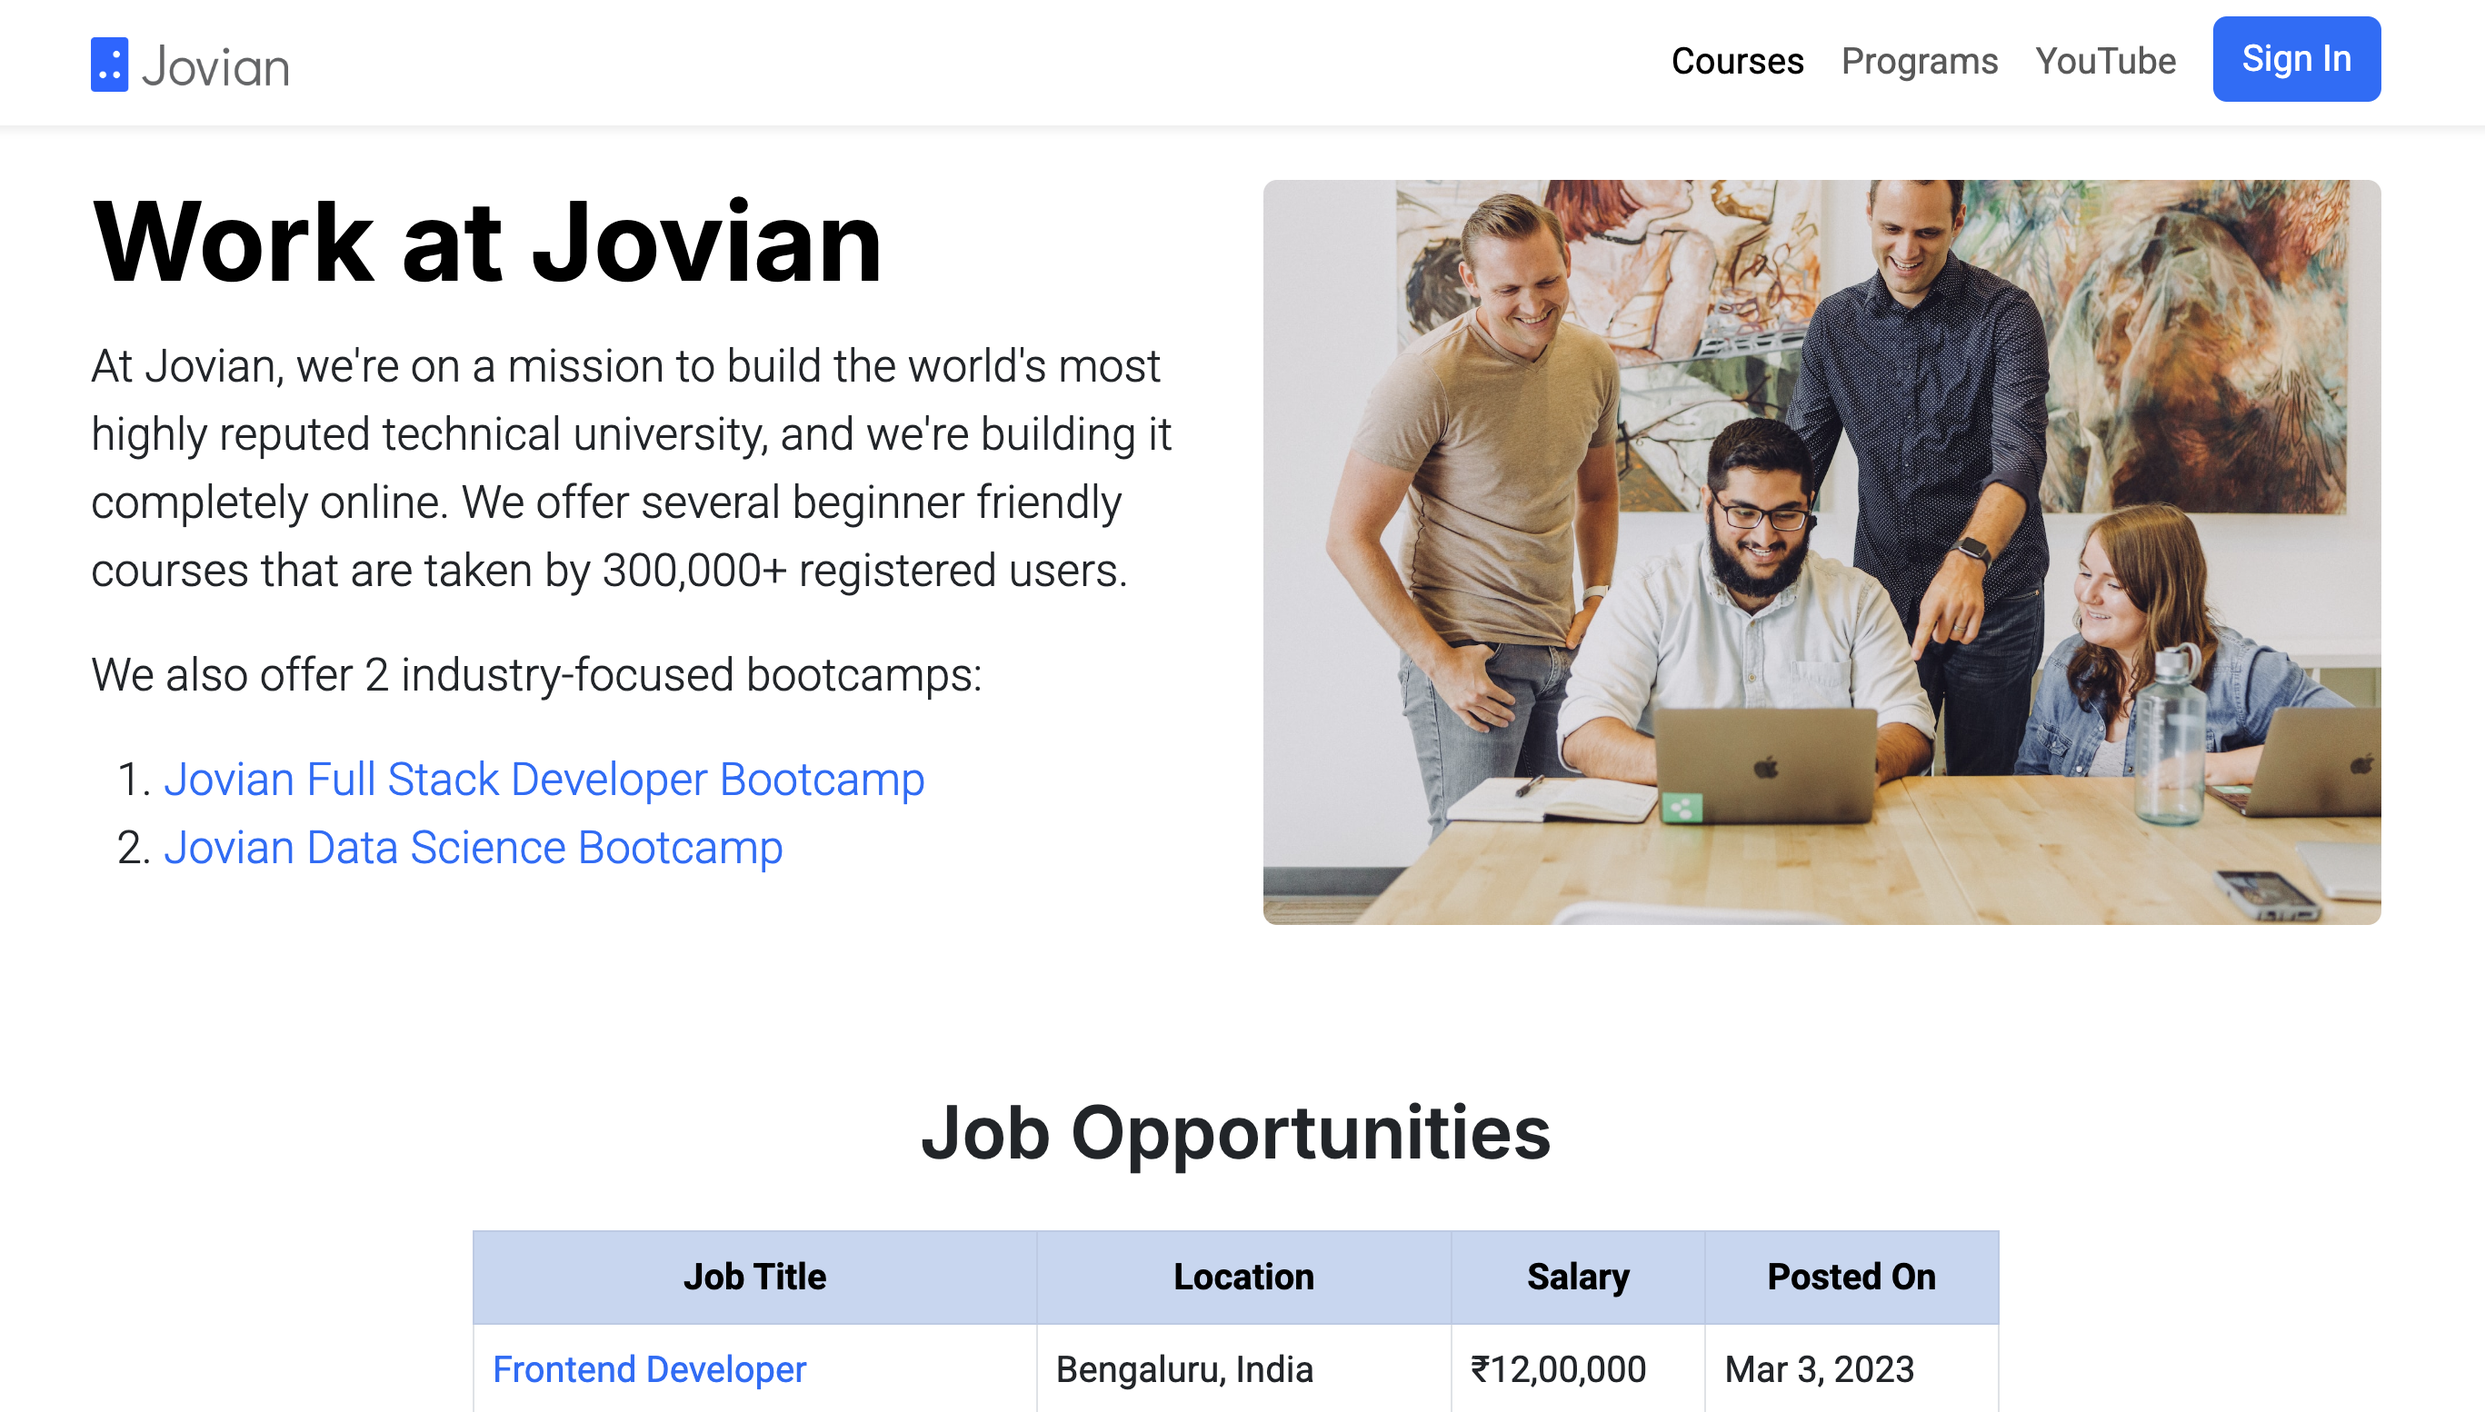
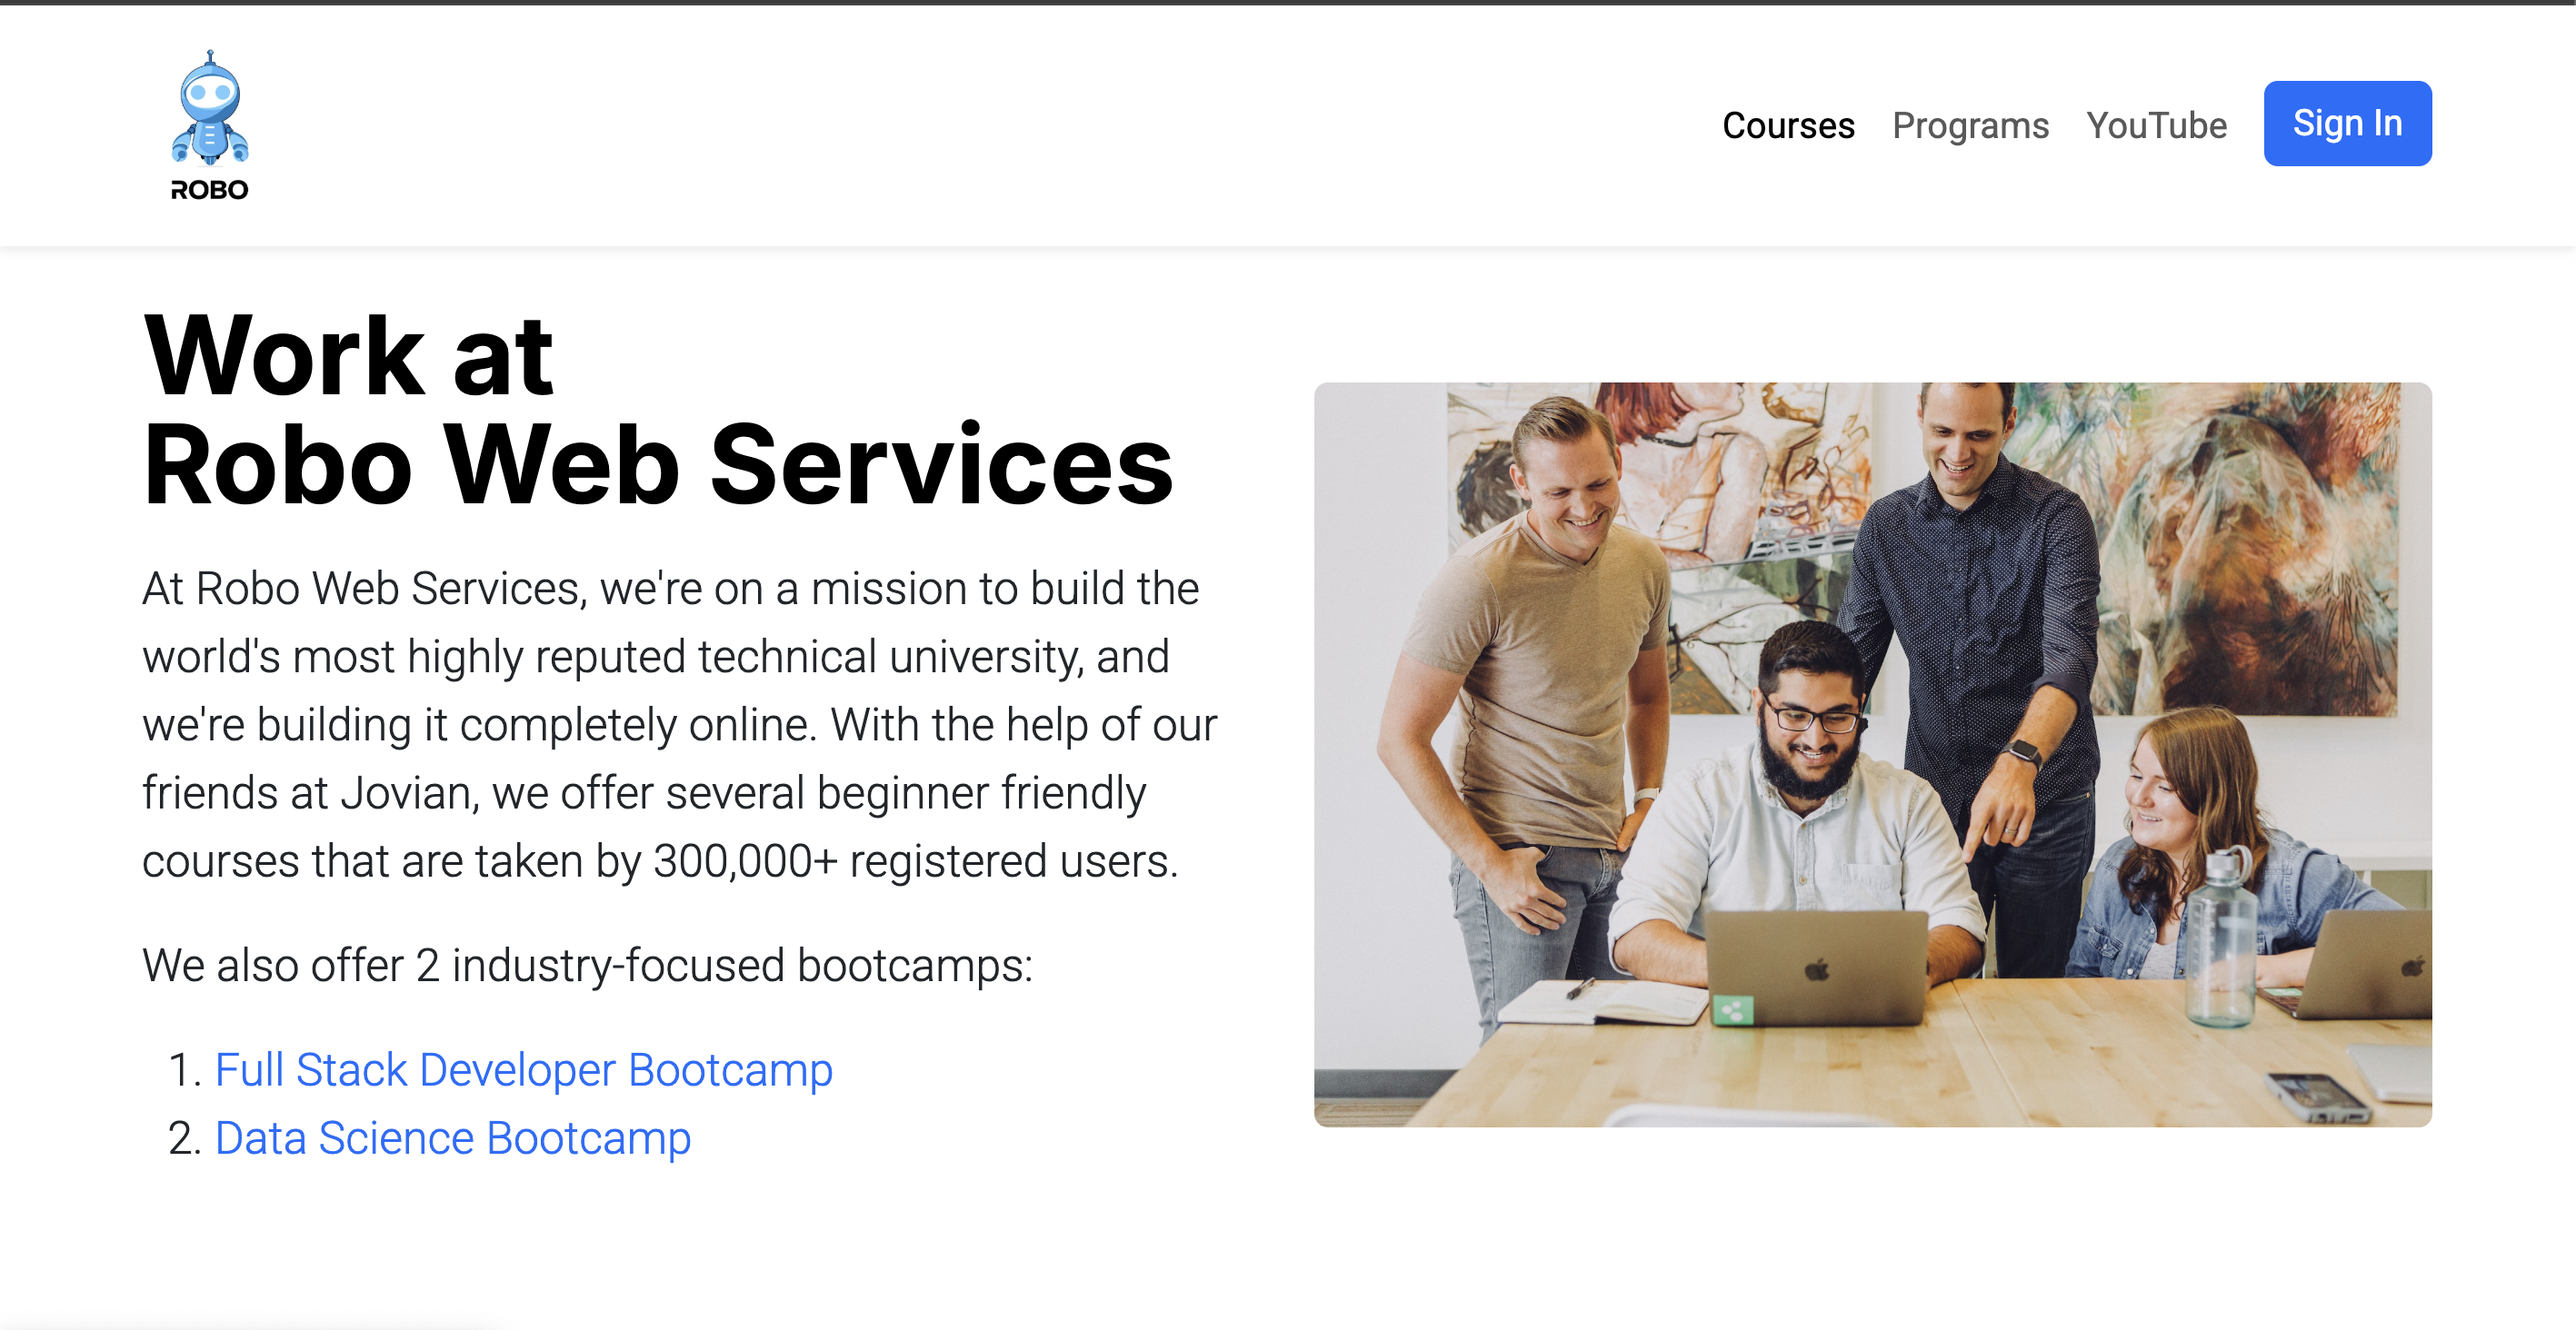
updated project img

diff --git a/index.html b/index.html
@@ -634,7 +634,7 @@
                             <div class="project" style="background-image: url(assets/images/Jovian.png);">
                                 <div class="desc">
                                     <div class="con">
-                                        <h3>Jovian Career Site</h3>
+                                        <h3>Robo Web Services Careers</h3>
                                         <!-- <span>Graphic, Logo</span> -->
                                         <p class="icon">
                                             <span><a href="#"><i class="icon-share3"></i></a></span>
